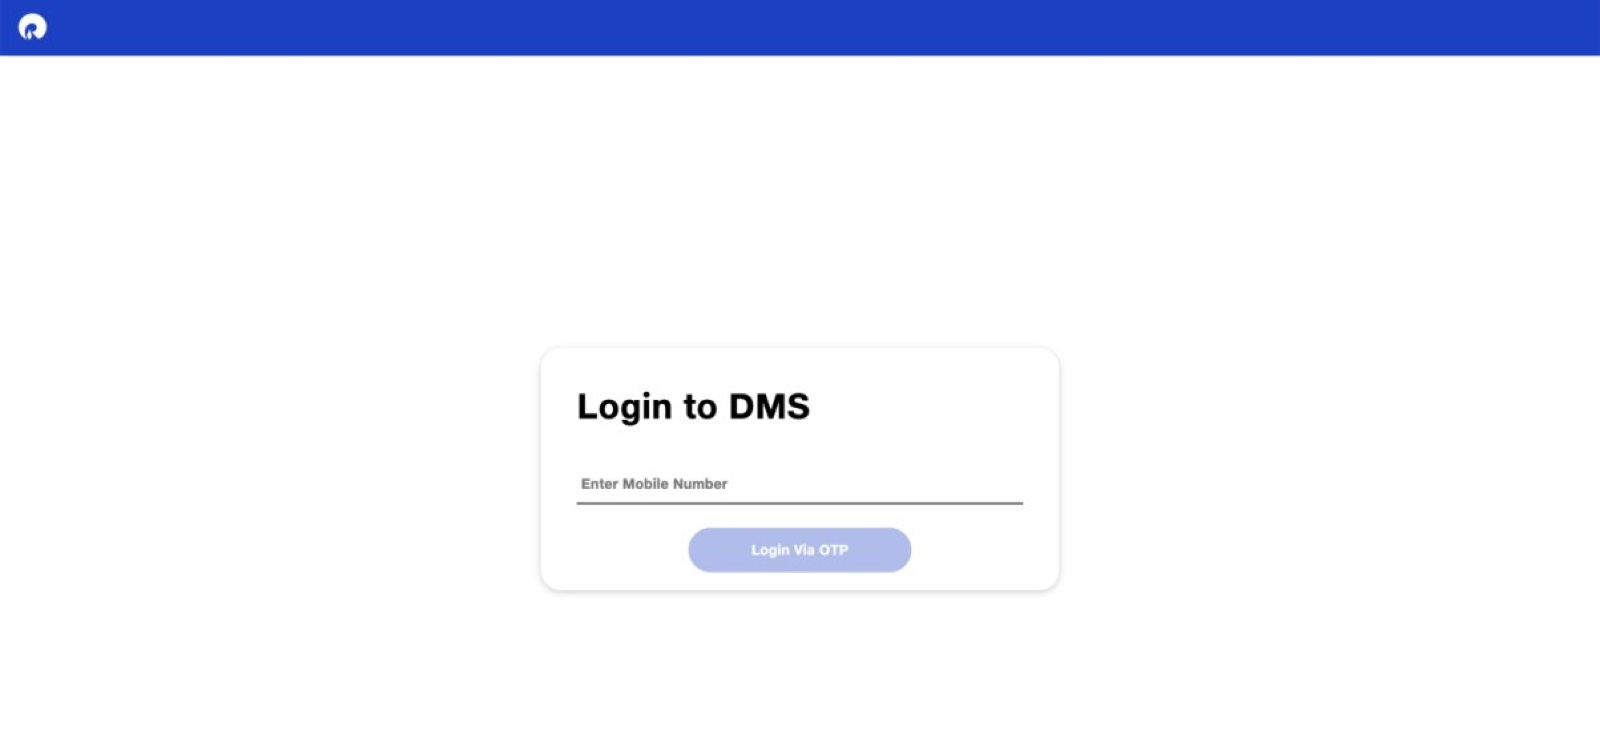
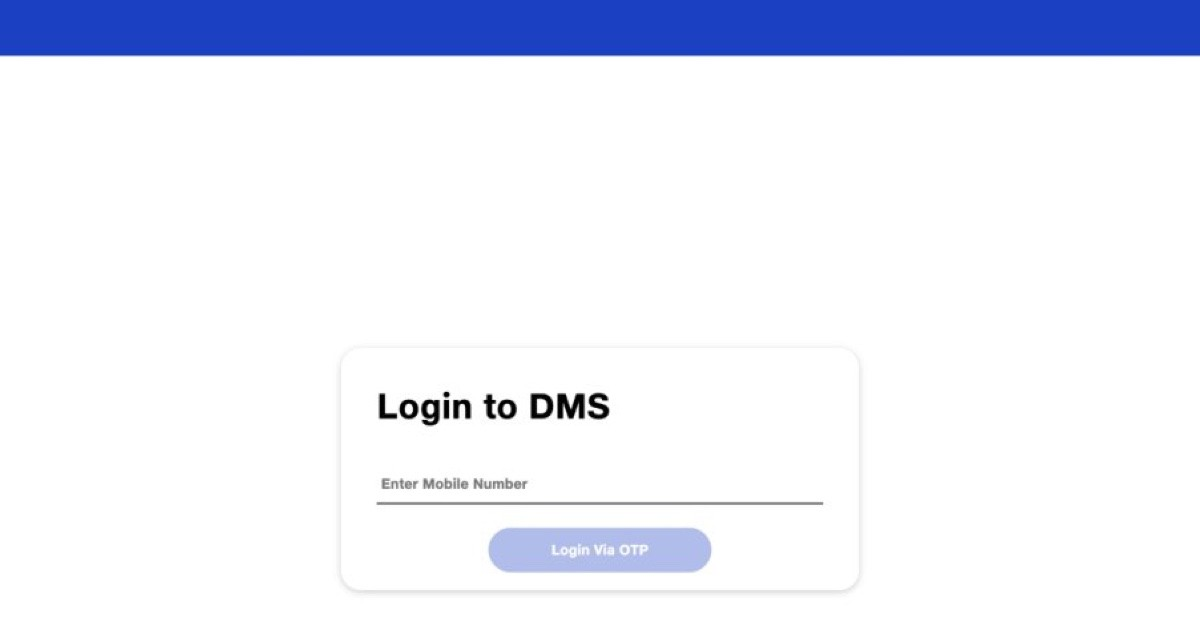
fix(rcpl): crop DMS login screenshot and constrain height in Saarthi card
- Cropped dms-login.jpg from 1600x748 to 1200x620 (removed excess whitespace)
- Added max-height: 280px + object-fit: contain to prevent oversized display
- Saarthi card now matches the compact height of adjacent cards

diff --git a/rcpl/index.html b/rcpl/index.html
@@ -346,7 +346,7 @@
 <p class="text-sm mb-3" style="color: var(--ink);">Mobile-web · ASM/ASE login by mobile + OTP · view mapped distributor list · click-through auto-login into the distributor's ordering portal · place full primary order with cart, scheme, and balance checks.</p>
 <p class="url mb-3"><a href="https://saarthi.reliancedms.com/" rel="noopener" target="_blank">https://saarthi.reliancedms.com/</a></p>
 <div class="screenshot-frame"><div class="screenshot-bar"><div class="screenshot-dots"><span></span><span></span><span></span></div><span class="screenshot-url">dms login</span></div><div class="screenshot-body"><a class="js-lightbox" href="/assets/jcp/rcpl/dms-login.jpg" rel="noopener" target="_blank" title="Open full-size screenshot">
-<img alt="DMS login · mobile-OTP entry" class="od-img" loading="lazy" src="/assets/jcp/rcpl/dms-login.jpg"/>
+<img alt="DMS login · mobile-OTP entry" class="od-img" loading="lazy" src="/assets/jcp/rcpl/dms-login.jpg" style="max-height: 280px; object-fit: contain;"/>
 </a></div></div>
 </div>
 <div class="surface-card">
